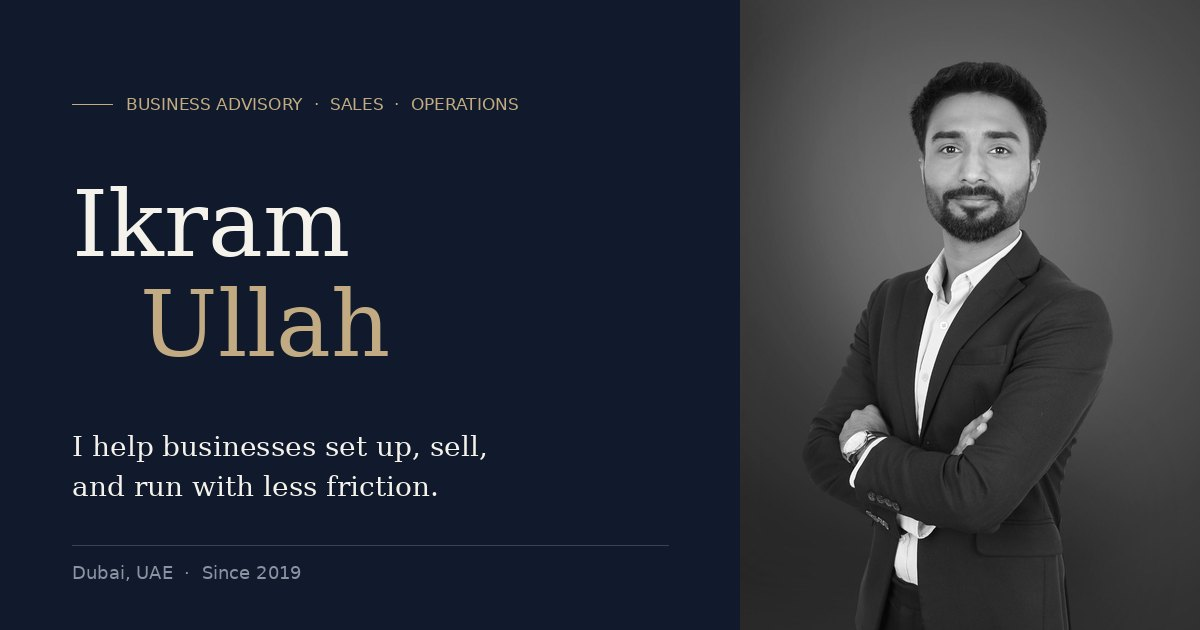
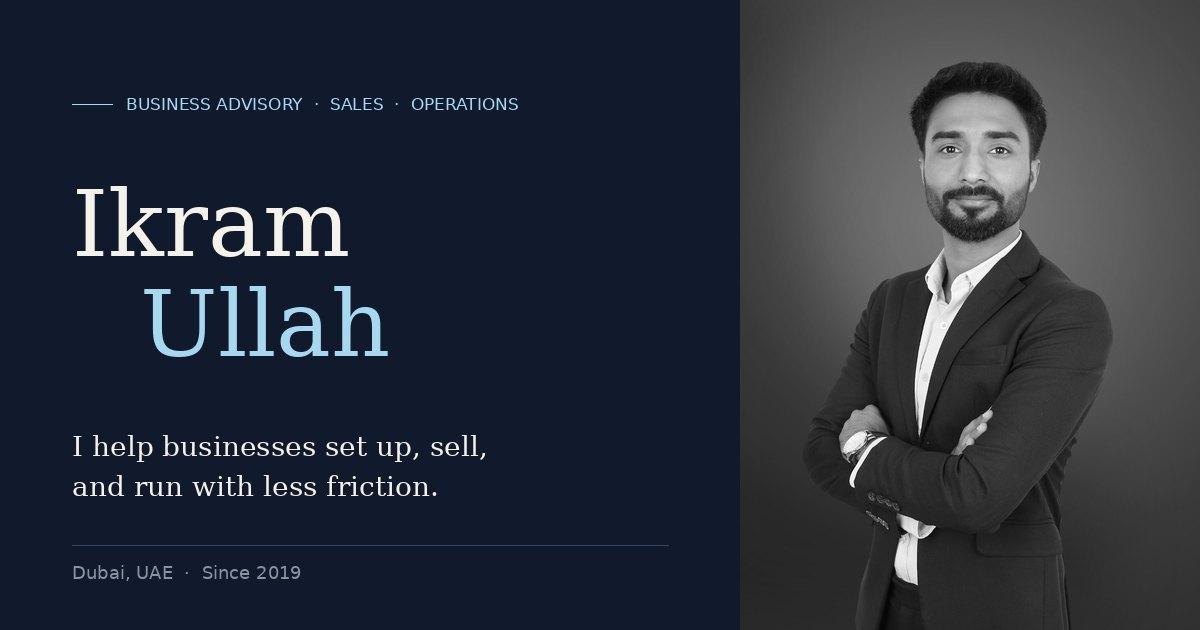
Replace gold accents with icy blue and teal colour system
Claude-Session: https://claude.ai/code/session_019uFT7raVz7Vsdnp6aX6nLe

Changed region(s): [[0.1233, 0.4524, 0.3392, 0.573], [0.2775, 0.1508, 0.4317, 0.181], [0.0925, 0.1508, 0.2467, 0.181]]

diff --git a/styles.css b/styles.css
@@ -2,7 +2,8 @@
   Ikram Ullah, executive portfolio
   Layout: a 12-column frame with alternating midnight and ivory bands. Dark bands carry
   the cinematic moments (opening, selected work, contact); ivory bands carry the reading.
-  The display serif sets the voice, the sans carries detail, champagne is used sparingly.
+  The display serif sets the voice, the sans carries detail. Icy blue is the primary accent;
+  teal is a secondary accent reserved for live states, progress and the occasional highlight.
 */
 :root {
   /* palette */
@@ -11,13 +12,15 @@
   --charcoal: #15171b;
   --ivory: #f5f2eb;
   --ivory-2: #ece7dc;
-  --champagne: #c2ab82;      /* accents on dark */
-  --champagne-ink: #7a6440;  /* accents on ivory, 4.9:1 */
+  --ice: #a8d8f0;            /* primary accent on dark, 11:1 on midnight */
+  --teal: #63c7c5;           /* secondary accent on dark, 8.5:1 on midnight */
+  --ice-ink: #2f5f86;        /* primary accent on ivory, 6:1 */
+  --teal-ink: #1f6f6d;       /* secondary accent on ivory, 5.3:1 */
   --slate: #8a93a1;          /* secondary on dark */
   --slate-ink: #4b5262;      /* secondary on ivory */
   --ink: #121722;            /* text on ivory */
   --line-light: #d9d2c4;
-  --line-dark: rgb(194 171 130 / .2);
+  --line-dark: rgb(168 216 240 / .16);
 
   /* type */
   --serif: "Bodoni Moda", "Didot", "Bodoni 72", "Playfair Display", Georgia, serif;
@@ -51,7 +54,8 @@
 .tone-dark {
   --fg: var(--ivory);
   --fg-2: var(--slate);
-  --accent: var(--champagne);
+  --accent: var(--ice);
+  --accent-2: var(--teal);
   --rule: var(--line-dark);
   background: var(--midnight);
   color: var(--fg);
@@ -60,7 +64,8 @@
 .tone-light {
   --fg: var(--ink);
   --fg-2: var(--slate-ink);
-  --accent: var(--champagne-ink);
+  --accent: var(--ice-ink);
+  --accent-2: var(--teal-ink);
   --rule: var(--line-light);
   background: var(--ivory);
   color: var(--fg);
@@ -91,8 +96,8 @@ h1, h2, h3, h4 { margin: 0; font-weight: 400; text-wrap: balance; }
 p, ul, ol, dl, dd, figure { margin: 0; }
 ul, ol { padding: 0; list-style: none; }
 button { font: inherit; color: inherit; }
-:focus-visible { outline: 2px solid var(--accent, var(--champagne)); outline-offset: 4px; }
-::selection { background: var(--champagne); color: var(--midnight); }
+:focus-visible { outline: 2px solid var(--accent, var(--ice)); outline-offset: 4px; }
+::selection { background: var(--ice); color: var(--midnight); }
 
 .frame {
   width: 100%; max-width: var(--maxw); margin-inline: auto;
@@ -137,21 +142,22 @@ button { font: inherit; color: inherit; }
   min-height: 52px; padding: 0 1.7rem; border: 1px solid transparent; border-radius: 0;
   font: 600 .8125rem/1 var(--sans); letter-spacing: .14em; text-transform: uppercase; text-decoration: none;
   cursor: pointer; overflow: hidden; isolation: isolate;
-  transition: color var(--t-fast) var(--ease), border-color var(--t-fast) var(--ease);
+  transition: color var(--t-fast) var(--ease), border-color var(--t-med) var(--ease), background-color var(--t-med) var(--ease);
 }
 .btn::before {
   content: ""; position: absolute; inset: 0; z-index: -1;
   transform: scaleY(0); transform-origin: bottom; transition: transform var(--t-med) var(--ease);
 }
 .btn:hover::before, .btn:focus-visible::before { transform: scaleY(1); }
-.btn-gold { background: var(--accent); color: var(--midnight); border-color: var(--accent); }
-.tone-light .btn-gold { color: var(--ivory); }
-.btn-gold::before { background: var(--fg); }
-.btn-gold:hover { color: var(--midnight); border-color: var(--fg); }
-.tone-light .btn-gold:hover { color: var(--ivory); }
+.btn-accent { background: var(--accent); color: var(--midnight); border-color: var(--accent); }
+.tone-light .btn-accent { color: var(--ivory); }
+.btn-accent::before { background: var(--accent-2); }
+.btn-accent:hover { color: var(--midnight); border-color: var(--accent-2); }
+.tone-light .btn-accent:hover { color: var(--ivory); }
 .btn-ghost { background: transparent; color: var(--fg); border-color: color-mix(in srgb, var(--fg) 35%, transparent); }
 .btn-ghost::before { background: var(--fg); }
 .btn-ghost:hover { color: var(--midnight); border-color: var(--fg); }
+.btn-ghost:focus-visible { border-color: var(--accent); }
 .btn-sm { min-height: 44px; padding: 0 1.15rem; font-size: .75rem; }
 .btn-arrow { width: 1.4rem; height: 1px; background: currentColor; position: relative; transition: width var(--t-med) var(--ease); }
 .btn-arrow::after {
@@ -189,8 +195,10 @@ button { font: inherit; color: inherit; }
 }
 .nav-list a:hover, .nav-list a[aria-current="true"] { opacity: 1; }
 .nav-list a:hover::after, .nav-list a[aria-current="true"]::after { transform: scaleX(1); transform-origin: left; }
-.nav-cta { color: var(--champagne); padding: .7rem 0 .7rem 1.6rem; border-left: 1px solid currentColor; border-left-color: color-mix(in srgb, currentColor 40%, transparent); }
-.site-header[data-tone="light"].is-solid .nav-cta { color: var(--champagne-ink); }
+.nav-cta { color: var(--ice); transition: color var(--t-med) var(--ease); padding: .7rem 0 .7rem 1.6rem; border-left: 1px solid currentColor; border-left-color: color-mix(in srgb, currentColor 40%, transparent); }
+.nav-cta:hover { color: var(--teal); }
+.site-header[data-tone="light"].is-solid .nav-cta { color: var(--ice-ink); }
+.site-header[data-tone="light"].is-solid .nav-cta:hover { color: var(--teal-ink); }
 .nav-cta::after { left: 1.6rem; }
 .nav-cta:hover::after { transform: scaleX(1); transform-origin: left; }
 
@@ -217,7 +225,8 @@ button { font: inherit; color: inherit; }
 .menu-list a span { display: inline-block; }
 .menu-foot { display: grid; gap: .6rem; font-size: var(--fs-small); color: var(--slate); }
 .menu-foot a { text-decoration: none; }
-.menu-foot a:hover { color: var(--champagne); }
+.menu-foot a { transition: color var(--t-fast) var(--ease); }
+.menu-foot a:hover { color: var(--ice); }
 @media (prefers-reduced-motion: no-preference) {
   .menu.is-open .menu-list a span { animation: menu-in .8s var(--ease) both; animation-delay: calc(var(--i, 0) * 55ms + 60ms); }
   @keyframes menu-in { from { transform: translateY(105%); } to { transform: none; } }
@@ -255,7 +264,7 @@ html.menu-open .site-header { background: var(--midnight) !important; color: var
 }
 .hero-name .line { display: block; overflow: hidden; padding-bottom: .06em; }
 .hero-name .line > span { display: inline-block; }
-.hero-name .line:nth-child(2) { padding-left: .55em; font-style: italic; color: var(--champagne); }
+.hero-name .line:nth-child(2) { padding-left: .55em; font-style: italic; color: var(--ice); }
 .hero-headline {
   font-family: var(--serif); font-size: clamp(1.5rem, 1.1rem + 1.4vw, 2.3rem); line-height: 1.2;
   max-width: 22ch; letter-spacing: -.01em; font-variation-settings: "opsz" 40;
@@ -266,7 +275,7 @@ html.menu-open .site-header { background: var(--midnight) !important; color: var
   position: absolute; right: max(48px, env(safe-area-inset-right, 0px)); bottom: 1.4rem;
   font-size: .72rem; letter-spacing: .08em; color: var(--slate); max-width: 22rem; text-align: right;
 }
-.fig-caption span { color: var(--champagne); margin-right: .5rem; font-weight: 600; letter-spacing: .18em; text-transform: uppercase; }
+.fig-caption span { color: var(--teal); margin-right: .5rem; font-weight: 600; letter-spacing: .18em; text-transform: uppercase; }
 
 .hero-ledger {
   display: grid; grid-template-columns: repeat(4, minmax(0, 1fr));
@@ -350,7 +359,7 @@ html.menu-open .site-header { background: var(--midnight) !important; color: var
 .exp-lede { color: var(--fg-2); max-width: 26rem; }
 .roles { position: relative; display: grid; padding-left: 2.2rem; }
 .role-progress { position: absolute; left: 0; top: 0; bottom: 0; width: 1px; background: var(--rule); }
-.role-progress span { position: absolute; inset: 0; background: var(--accent); transform-origin: top; transform: scaleY(var(--p, 0)); }
+.role-progress span { position: absolute; inset: 0; background: var(--accent-2); transform-origin: top; transform: scaleY(var(--p, 0)); }
 .role { position: relative; display: grid; grid-template-columns: minmax(0, 9.5rem) minmax(0, 1fr); gap: 1.5rem; padding-block: 2.4rem; border-top: 1px solid var(--rule); }
 .role:nth-child(2) { border-top: 1px solid var(--fg); }
 .role::before {
@@ -360,7 +369,7 @@ html.menu-open .site-header { background: var(--midnight) !important; color: var
 .role-when { display: grid; gap: .25rem; align-content: start; font-size: .78rem; letter-spacing: .06em; font-variant-numeric: tabular-nums; }
 .role-when span:first-child { font-weight: 600; color: var(--fg); text-transform: uppercase; letter-spacing: .1em; }
 .role-when span:last-child { color: var(--fg-2); }
-.role-live { color: var(--accent) !important; }
+.role-live { color: var(--accent-2) !important; }
 .role-body { display: grid; gap: .7rem; min-width: 0; }
 .role-title { font-family: var(--serif); font-size: var(--fs-h3); line-height: 1.12; letter-spacing: -.01em; font-variation-settings: "opsz" 40; }
 .role-org { font-size: .78rem; font-weight: 600; letter-spacing: .14em; text-transform: uppercase; color: var(--accent); }
@@ -386,7 +395,7 @@ html.menu-open .site-header { background: var(--midnight) !important; color: var
 .work-stage {
   padding-block: var(--band);
   background: var(--charcoal);
-  --rule: rgb(194 171 130 / .18);
+  --rule: rgb(168 216 240 / .14);
   clip-path: inset(0 var(--inset, 0px) round 0);
   will-change: clip-path;
 }
@@ -402,7 +411,7 @@ html.menu-open .site-header { background: var(--midnight) !important; color: var
   gap: 1.5rem 2.5rem; padding: 2.2rem 0; background: none; border: 0; cursor: pointer; color: var(--fg);
 }
 .case-toggle::before {
-  content: ""; position: absolute; inset: 0 -1.5rem; z-index: -1; background: rgb(194 171 130 / .05);
+  content: ""; position: absolute; inset: 0 -1.5rem; z-index: -1; background: rgb(168 216 240 / .04);
   opacity: 0; transition: opacity var(--t-med) var(--ease);
 }
 .case-toggle:hover::before, .case-toggle[aria-expanded="true"]::before { opacity: 1; }
@@ -410,12 +419,13 @@ html.menu-open .site-header { background: var(--midnight) !important; color: var
 .case-meta { display: grid; gap: .3rem; font-size: .72rem; letter-spacing: .16em; text-transform: uppercase; }
 .case-meta span:first-child { color: var(--accent); font-weight: 600; }
 .case-meta span:last-child { color: var(--fg-2); letter-spacing: .08em; text-transform: none; font-size: .82rem; }
+/* hover: title shifts toward the primary accent */
 .case-title {
   font-family: var(--serif); font-size: clamp(1.6rem, 1.1rem + 1.8vw, 2.9rem); line-height: 1.06;
   letter-spacing: -.015em; font-variation-settings: "opsz" 60;
   transition: transform var(--t-med) var(--ease), color var(--t-med) var(--ease);
 }
-.case-toggle:hover .case-title { transform: translateX(.6rem); }
+.case-toggle:hover .case-title { transform: translateX(.6rem); color: var(--accent); }
 .case-figure { display: grid; gap: .25rem; justify-items: end; text-align: right; }
 .case-figure b { font-family: var(--serif); font-weight: 400; font-size: clamp(2rem, 1.4rem + 1.8vw, 3.2rem); line-height: 1; color: var(--accent); font-variant-numeric: lining-nums; }
 .case-figure small { font-size: .75rem; color: var(--fg-2); line-height: 1.35; max-width: 12rem; }
@@ -423,7 +433,7 @@ html.menu-open .site-header { background: var(--midnight) !important; color: var
 .case-icon::before, .case-icon::after { content: ""; position: absolute; left: 50%; top: 50%; width: 12px; height: 1px; background: currentColor; transform: translate(-50%, -50%); transition: transform var(--t-med) var(--ease); }
 .case-icon::after { transform: translate(-50%, -50%) rotate(90deg); }
 .case-toggle:hover .case-icon { border-color: var(--accent); }
-.case-toggle[aria-expanded="true"] .case-icon { background: var(--accent); border-color: var(--accent); color: var(--charcoal); }
+.case-toggle[aria-expanded="true"] .case-icon { background: var(--accent-2); border-color: var(--accent-2); color: var(--charcoal); }
 .case-toggle[aria-expanded="true"] .case-icon::after { transform: translate(-50%, -50%) rotate(0deg); }
 
 .case-panel {
@@ -456,7 +466,8 @@ html:not(.js) .case-icon { display: none; }
 .cert { display: grid; gap: .7rem; text-decoration: none; font-size: .8rem; letter-spacing: .04em; color: var(--fg-2); }
 .cert img { width: 100%; aspect-ratio: 4 / 3; object-fit: cover; object-position: top; background: #fff; transition: transform var(--t-med) var(--ease), filter var(--t-med) var(--ease); filter: grayscale(.35); }
 .cert:hover img { transform: translateY(-4px); filter: none; }
-.cert:hover span { color: var(--fg); }
+.cert:hover span { color: var(--accent); }
+.cert span { transition: color var(--t-fast) var(--ease); }
 
 @media (max-width: 1100px) {
   .case-toggle { grid-template-columns: minmax(0, 1fr) auto 2.75rem; gap: 1rem 1.5rem; }
@@ -483,7 +494,8 @@ html:not(.js) .case-icon { display: none; }
   transition: background-color var(--t-med) var(--ease);
 }
 .cap-row h3 { font-family: var(--serif); font-size: var(--fs-h3); line-height: 1.1; font-variation-settings: "opsz" 40; transition: transform var(--t-med) var(--ease); }
-.cap-row:hover h3 { transform: translateX(.4rem); }
+.cap-row h3 { transition: transform var(--t-med) var(--ease), color var(--t-med) var(--ease); }
+.cap-row:hover h3 { transform: translateX(.4rem); color: var(--accent); }
 .cap-desc { font-size: var(--fs-small); color: var(--fg-2); }
 .cap-items { display: flex; flex-wrap: wrap; gap: .45rem 0; font-size: .95rem; }
 .cap-items li { display: inline-flex; align-items: baseline; }
@@ -501,7 +513,7 @@ html:not(.js) .case-icon { display: none; }
 .journey-lede { color: var(--fg-2); max-width: 38rem; }
 .track { position: relative; display: grid; grid-template-columns: repeat(5, minmax(0, 1fr)); gap: 1.5rem; }
 .track-line { position: absolute; left: 0; right: 0; top: 2.3rem; height: 1px; background: var(--rule); }
-.track-line span { position: absolute; inset: 0; background: var(--accent); transform-origin: left; transform: scaleX(var(--p, 0)); }
+.track-line span { position: absolute; inset: 0; background: var(--accent-2); transform-origin: left; transform: scaleX(var(--p, 0)); }
 .stop { display: grid; gap: .55rem; align-content: start; position: relative; }
 .stop-when { font-size: .72rem; font-weight: 600; letter-spacing: .16em; text-transform: uppercase; color: var(--fg-2); height: 1.6rem; font-variant-numeric: tabular-nums; }
 .stop-dot { width: 11px; height: 11px; margin-block: .25rem .9rem; background: var(--ivory); border: 1px solid var(--accent); transform: rotate(45deg); position: relative; z-index: 1; }
@@ -509,7 +521,7 @@ html:not(.js) .case-icon { display: none; }
 .stop h3 { font-family: var(--serif); font-size: 1.35rem; line-height: 1.15; font-variation-settings: "opsz" 30; }
 .stop p { font-size: var(--fs-small); color: var(--fg-2); }
 .stop a { color: var(--accent); text-underline-offset: 3px; }
-.stop-next .stop-when { color: var(--accent); }
+.stop-next .stop-when { color: var(--accent-2); }
 .stop-next h3 { font-style: italic; }
 .certs { display: grid; grid-template-columns: repeat(4, minmax(0, 1fr)); gap: 1.5rem; margin-top: clamp(3rem, 6vw, 5rem); padding-top: 2rem; border-top: 1px solid var(--rule); }
 .certs .cert { color: var(--fg-2); }
@@ -537,17 +549,18 @@ html:not(.js) .case-icon { display: none; }
 }
 .contact-inner { display: grid; gap: 1.8rem; }
 .contact-title { max-width: 11ch; }
-.contact-title .w:last-child > span { font-style: italic; color: var(--champagne); }
+.contact-title .w:last-child > span { font-style: italic; color: var(--teal); }
 .contact-lede { max-width: 36rem; color: #c3c8d1; font-size: var(--fs-lead); line-height: 1.55; }
 .contact-list { margin-top: 2rem; border-top: 1px solid var(--fg); max-width: 64rem; }
 .contact-row {
   display: grid; grid-template-columns: 8rem minmax(0, 1fr) auto; align-items: center; gap: 1rem 2rem;
   padding-block: 1.5rem; border-bottom: 1px solid var(--rule);
 }
-.contact-row dt { font-size: .72rem; font-weight: 600; letter-spacing: .2em; text-transform: uppercase; color: var(--slate); }
+.contact-row:hover dt { color: var(--ice); }
+.contact-row dt { transition: color var(--t-med) var(--ease); font-size: .72rem; font-weight: 600; letter-spacing: .2em; text-transform: uppercase; color: var(--slate); }
 .contact-value { font-family: var(--serif); font-size: clamp(1.3rem, 1rem + 1.4vw, 2.3rem); line-height: 1.15; overflow-wrap: anywhere; min-width: 0; user-select: all; font-variant-numeric: lining-nums; }
 .contact-actions { display: flex; flex-wrap: wrap; gap: .6rem; justify-content: flex-end; }
-.copy-status { min-height: 1.5em; font-size: var(--fs-small); color: var(--champagne); }
+.copy-status { min-height: 1.5em; font-size: var(--fs-small); color: var(--teal); }
 @media (max-width: 760px) {
   .contact-row { grid-template-columns: 1fr; gap: .5rem; }
   .contact-actions { justify-content: flex-start; margin-top: .4rem; }
@@ -560,7 +573,7 @@ html:not(.js) .case-icon { display: none; }
 .footer-role { font-size: var(--fs-small); color: var(--slate); }
 .footer-links { display: flex; flex-wrap: wrap; gap: 1.8rem; }
 .footer-links a { text-decoration: none; font-size: .75rem; font-weight: 600; letter-spacing: .16em; text-transform: uppercase; color: var(--ivory); background: linear-gradient(currentColor, currentColor) 0 100% / 0 1px no-repeat; transition: background-size var(--t-med) var(--ease); padding-bottom: .2rem; }
-.footer-links a:hover { background-size: 100% 1px; }
+.footer-links a:hover { background-size: 100% 1px; color: var(--ice); }
 .footer-copy { grid-column: 1 / -1; padding-top: 1.6rem; margin-top: 1rem; border-top: 1px solid var(--line-dark); font-size: .75rem; color: var(--slate); letter-spacing: .04em; }
 @media (max-width: 860px) { .footer-inner { grid-template-columns: 1fr; } }
 

diff --git a/script.js b/script.js
@@ -129,7 +129,7 @@
           var ed = edges[k], a = nodes[ed[0]], b = nodes[ed[1]];
           var depth = clamp(0.75 - (a.pz + b.pz) / (4 * N), 0.25, 1);
           var alpha = settle * depth * (ed[2] === 2 ? 0.75 : ed[2] === 1 ? 0.28 : 0.16) * Math.min(a.p, b.p);
-          ctx.strokeStyle = ed[2] === 2 ? "rgba(194,171,130," + alpha.toFixed(3) + ")" : "rgba(160,170,186," + alpha.toFixed(3) + ")";
+          ctx.strokeStyle = ed[2] === 2 ? "rgba(168,216,240," + (alpha * 0.9).toFixed(3) + ")" : "rgba(150,166,190," + alpha.toFixed(3) + ")";
           ctx.beginPath(); ctx.moveTo(a.px, a.py); ctx.lineTo(b.px, b.py); ctx.stroke();
         }
       }
@@ -140,7 +140,7 @@
         var dz = clamp(0.8 - o.pz / (2.5 * N), 0.3, 1);
         var r = (o.top ? 2.1 : 1.3) * (0.7 + dz * 0.5);
         var al = (0.25 + 0.75 * o.p) * dz * (o.top ? 1 : 0.55);
-        ctx.fillStyle = o.top ? "rgba(214,194,156," + al.toFixed(3) + ")" : "rgba(196,203,214," + al.toFixed(3) + ")";
+        ctx.fillStyle = o.top ? "rgba(196,232,248," + al.toFixed(3) + ")" : "rgba(190,202,218," + al.toFixed(3) + ")";
         ctx.beginPath(); ctx.arc(o.px, o.py, r, 0, Math.PI * 2); ctx.fill();
       }
 
@@ -153,13 +153,13 @@
           var A = nodes[diag[seg]], B = nodes[diag[Math.min(seg + 1, diag.length - 1)]];
           var gx = A.px + (B.px - A.px) * fr, gy = A.py + (B.py - A.py) * fr;
           var glow = ctx.createRadialGradient(gx, gy, 0, gx, gy, 18);
-          glow.addColorStop(0, "rgba(232,214,178,.85)"); glow.addColorStop(1, "rgba(232,214,178,0)");
+          glow.addColorStop(0, "rgba(140,220,218,.75)"); glow.addColorStop(1, "rgba(99,199,197,0)");
           ctx.fillStyle = glow; ctx.beginPath(); ctx.arc(gx, gy, 18, 0, Math.PI * 2); ctx.fill();
         }
         // the peak: one quiet marker on the highest column
         var peak = nodes[diag[diag.length - 1]];
         var pulse = still ? 0.5 : (Math.sin(t * 1.4) + 1) / 2;
-        ctx.strokeStyle = "rgba(194,171,130," + (0.25 + pulse * 0.35).toFixed(3) + ")";
+        ctx.strokeStyle = "rgba(99,199,197," + (0.25 + pulse * 0.35).toFixed(3) + ")";
         ctx.beginPath(); ctx.arc(peak.px, peak.py, 7 + pulse * 3, 0, Math.PI * 2); ctx.stroke();
       }
     }

diff --git a/index.html b/index.html
@@ -108,7 +108,7 @@
           to the way I work.
         </p>
         <div class="hero-actions" data-intro="5">
-          <a class="btn btn-gold" href="#projects">Explore My Work <span class="btn-arrow" aria-hidden="true"></span></a>
+          <a class="btn btn-accent" href="#projects">Explore My Work <span class="btn-arrow" aria-hidden="true"></span></a>
           <a class="btn btn-ghost" href="#contact">Get in Touch</a>
         </div>
       </div>
@@ -633,7 +633,7 @@
             <dt>Email</dt>
             <dd class="contact-value" id="email-value">ikramraj0910@gmail.com</dd>
             <dd class="contact-actions">
-              <a class="btn btn-gold btn-sm" href="mailto:ikramraj0910@gmail.com?subject=Hello%20Ikram">Send email</a>
+              <a class="btn btn-accent btn-sm" href="mailto:ikramraj0910@gmail.com?subject=Hello%20Ikram">Send email</a>
               <button class="btn btn-ghost btn-sm" type="button" data-copy="ikramraj0910@gmail.com" data-copy-target="email-value">Copy</button>
             </dd>
           </div>

diff --git a/README.md b/README.md
@@ -2,7 +2,7 @@
 
 A static, dependency-free executive portfolio (HTML, CSS and one vanilla JS file, no build step).
 
-Design: midnight and ivory bands, Bodoni Moda display type with Instrument Sans, champagne accents.
+Design: midnight and ivory bands, Bodoni Moda display type with Instrument Sans, icy blue and teal accents.
 The opening visual is a canvas-drawn "growth lattice": scattered points assemble into a grid of
 columns rising toward one corner. It pauses when off-screen, renders as a still frame for visitors
 who prefer reduced motion, and the page works fully without it (or without JavaScript).
